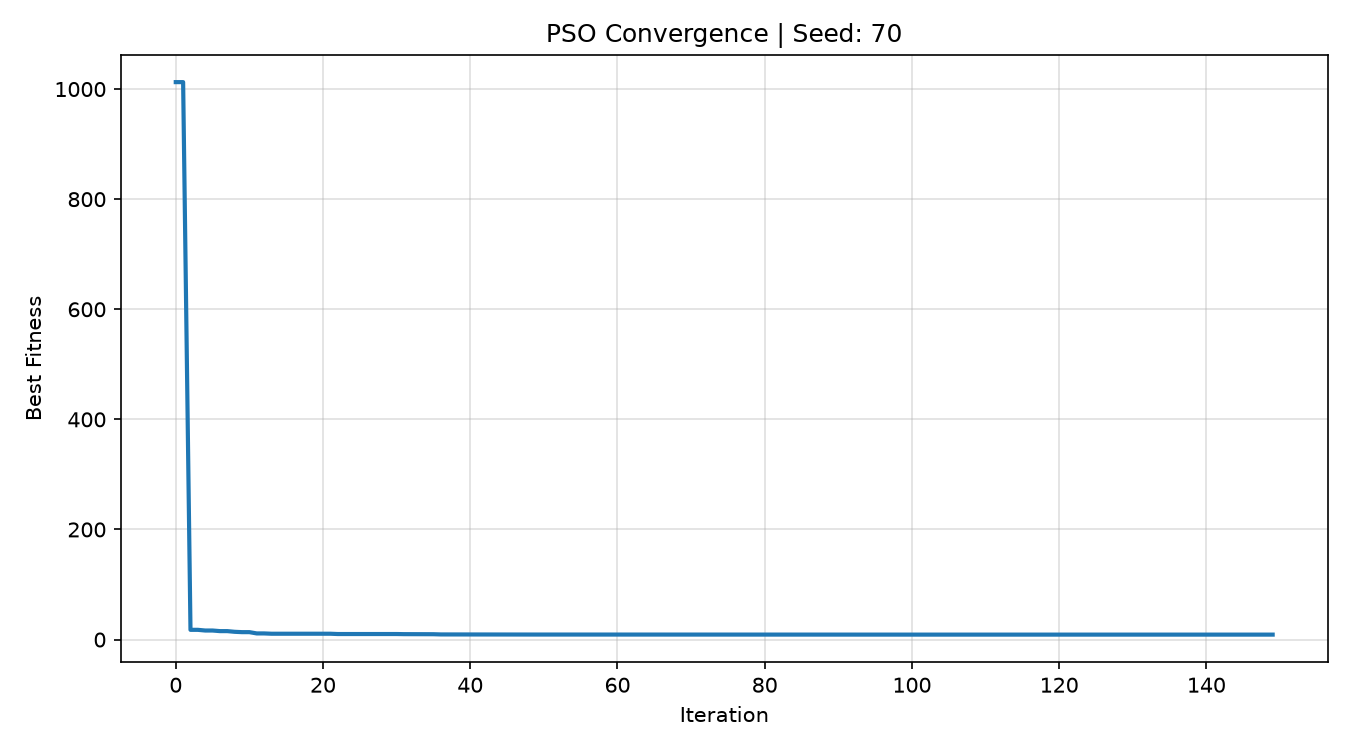
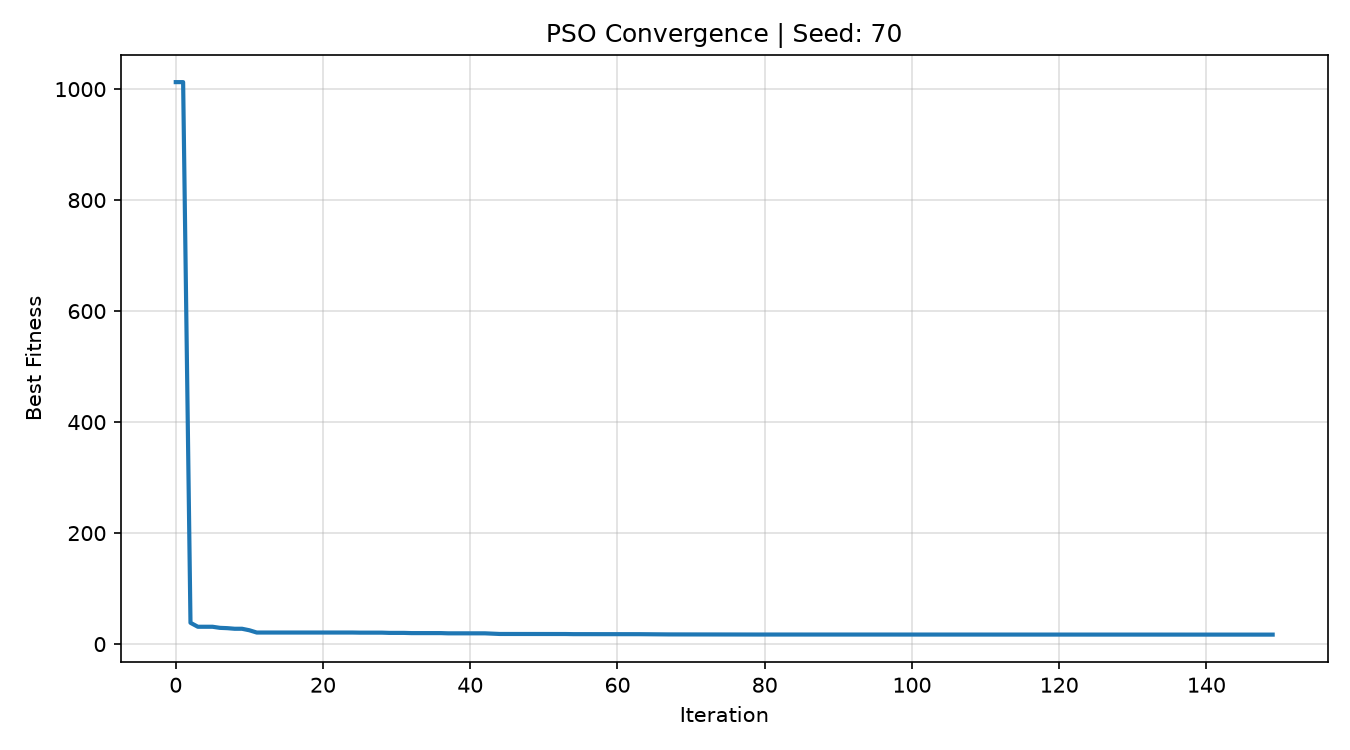
Improve path quality and verify PSO results

diff --git a/pso_path_planning.py b/pso_path_planning.py
@@ -24,7 +24,6 @@ def generate_problem():
     and goal point using the roll number as the seed.
     """
 
-    # Grid size is generated from the seed
     grid_size = random.randint(20, 30)
 
     all_cells = [
@@ -117,19 +116,23 @@ def segment_collision(point1, point2):
     """
     Check whether a line segment crosses an obstacle.
 
-    The segment is sampled at grid-level resolution, making
-    collision checking much faster than checking every
-    obstacle distance separately.
+    The segment is sampled at grid-level resolution.
     """
 
-    distance = np.linalg.norm(point2 - point1)
+    distance = np.linalg.norm(
+        point2 - point1
+    )
 
     steps = max(
         int(distance * 2),
         2
     )
 
-    for t in np.linspace(0, 1, steps + 1):
+    for t in np.linspace(
+        0,
+        1,
+        steps + 1
+    ):
 
         point = (
             point1
@@ -157,7 +160,68 @@ def path_collision(path):
 
 
 # ============================================================
-# 4. PATH LENGTH
+# 4. CLEARANCE PENALTY
+# ============================================================
+
+def clearance_penalty(path):
+    """
+    Penalize paths that pass too close to obstacles.
+
+    Collision-free paths with better obstacle clearance
+    receive a lower penalty.
+    """
+
+    SAFE_DISTANCE = 1.5
+    penalty = 0.0
+
+    for i in range(len(path) - 1):
+
+        point1 = path[i]
+        point2 = path[i + 1]
+
+        distance = np.linalg.norm(
+            point2 - point1
+        )
+
+        steps = max(
+            int(distance * 3),
+            3
+        )
+
+        for t in np.linspace(
+            0,
+            1,
+            steps + 1
+        ):
+
+            point = (
+                point1
+                + t * (point2 - point1)
+            )
+
+            for obstacle in OBSTACLES:
+
+                obstacle_point = np.array(
+                    obstacle,
+                    dtype=float
+                )
+
+                obstacle_distance = np.linalg.norm(
+                    point - obstacle_point
+                )
+
+                if obstacle_distance < SAFE_DISTANCE:
+
+                    penalty += (
+                        SAFE_DISTANCE
+                        - obstacle_distance
+                    ) ** 2
+
+    return penalty
+
+
+# ============================================================
+# 5. PATH LENGTH
 # ============================================================
 
 def path_length(path):
@@ -177,14 +241,16 @@ def path_length(path):
 
 
 # ============================================================
-# 5. FITNESS FUNCTION
+# 6. FITNESS FUNCTION
 # ============================================================
 
 def fitness(path):
     """
     Lower fitness is better.
 
-    Collision-free paths are strongly preferred.
+    Collision paths receive a large penalty.
+    Paths that pass very close to obstacles receive
+    a small additional penalty.
     """
 
     length = path_length(path)
@@ -192,11 +258,28 @@ def fitness(path):
     if path_collision(path):
         return length + 1000
 
-    return length
+    # Simple clearance check using path points
+    penalty = 0
+
+    for point in path:
+
+        x = int(round(point[0]))
+        y = int(round(point[1]))
+
+        for dx, dy in [
+            (-1, -1), (-1, 0), (-1, 1),
+            (0, -1),           (0, 1),
+            (1, -1),  (1, 0),  (1, 1)
+        ]:
+
+            if (x + dx, y + dy) in OBSTACLES:
+                penalty += 2
+
+    return length + penalty
 
 
 # ============================================================
-# 6. INITIALIZE PARTICLES
+# 7. INITIALIZE PARTICLES
 # ============================================================
 
 def initialize_particles():
@@ -246,7 +329,7 @@ def initialize_particles():
 
 
 # ============================================================
-# 7. PSO PARAMETERS
+# 8. PSO PARAMETERS
 # ============================================================
 
 NUM_PARTICLES = 40
@@ -257,7 +340,7 @@ SOCIAL = 1.6
 
 
 # ============================================================
-# 8. PARTICLE SWARM OPTIMIZATION
+# 9. PARTICLE SWARM OPTIMIZATION
 # ============================================================
 
 def run_pso():
@@ -488,7 +571,7 @@ def run_pso():
 
 
 # ============================================================
-# 9. SIMPLIFY FINAL PATH
+# 10. SIMPLIFY FINAL PATH
 # ============================================================
 
 def simplify_path(path):
@@ -535,7 +618,7 @@ def simplify_path(path):
 
 
 # ============================================================
-# 10. RUN PSO
+# 11. RUN PSO
 # ============================================================
 
 print("Running PSO path planning...")
@@ -543,6 +626,7 @@ print("Please wait...")
 
 best_path, fitness_history = run_pso()
 
+# Simplify the final path
 best_path = simplify_path(
     best_path
 )
@@ -557,7 +641,7 @@ collision_free = not path_collision(
 
 
 # ============================================================
-# 11. CREATE RESULTS DIRECTORY
+# 12. CREATE RESULTS DIRECTORY
 # ============================================================
 
 os.makedirs(
@@ -567,7 +651,7 @@ os.makedirs(
 
 
 # ============================================================
-# 12. PRINT RESULTS
+# 13. PRINT RESULTS
 # ============================================================
 
 print()
@@ -615,6 +699,11 @@ print(
 )
 
 print(
+    f"Final Path Points  : "
+    f"{len(best_path)}"
+)
+
+print(
     f"Final Path Length  : "
     f"{final_length:.2f}"
 )
@@ -638,7 +727,7 @@ for point in best_path:
 
 
 # ============================================================
-# 13. FINAL PATH VISUALIZATION
+# 14. FINAL PATH VISUALIZATION
 # ============================================================
 
 fig, ax = plt.subplots(
@@ -762,7 +851,7 @@ plt.show()
 
 
 # ============================================================
-# 14. CONVERGENCE GRAPH
+# 15. CONVERGENCE GRAPH
 # ============================================================
 
 plt.figure(
@@ -799,3 +888,30 @@ plt.savefig(
 )
 
 plt.show()
+
+
+# ============================================================
+# 16. FINAL VERIFICATION
+# ============================================================
+
+print()
+print("=" * 65)
+print("FINAL VERIFICATION")
+print("=" * 65)
+
+print(
+    f"Path collision check : "
+    f"{'PASSED' if not path_collision(best_path) else 'FAILED'}"
+)
+
+print(
+    f"Path image           : "
+    f"{'CREATED' if os.path.exists('results/path.png') else 'MISSING'}"
+)
+
+print(
+    f"Convergence graph    : "
+    f"{'CREATED' if os.path.exists('results/convergence.png') else 'MISSING'}"
+)
+
+print("=" * 65)
